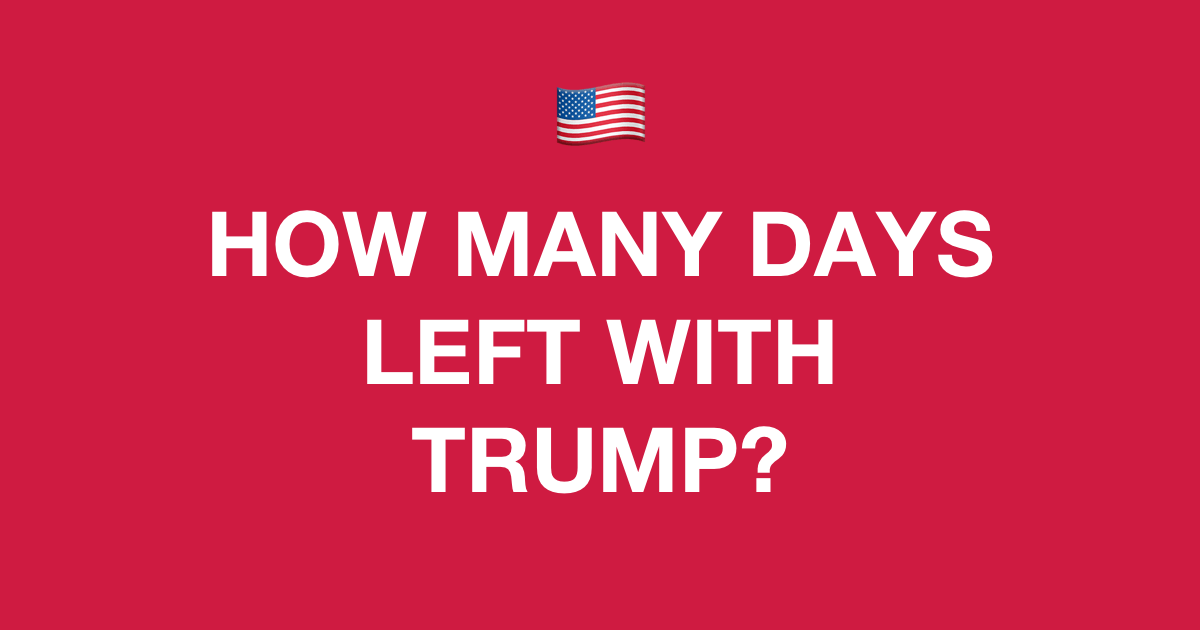
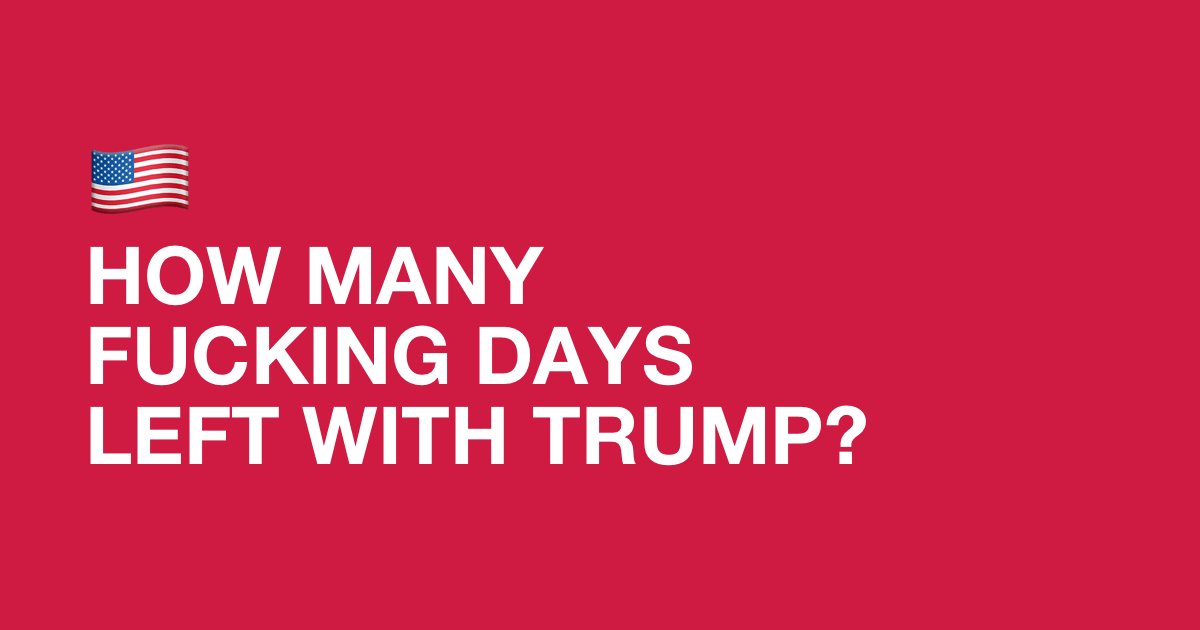
Update sharing URLs content and postcard img

Changed region(s): [[0.0617, 0.3317, 0.8325, 0.7841], [0.0617, 0.2111, 0.1542, 0.3619], [0.4625, 0.1206, 0.555, 0.2413]]

diff --git a/index.html b/index.html
@@ -54,7 +54,12 @@
             font-smoothing: antialiased;
         }
 
-        .lol {
+        .countdown {
+            display: flex;
+            flex-direction: column;
+        }
+
+        .lols {
             position: absolute;
             bottom: 20px;
         }
@@ -64,6 +69,8 @@
             background: none;
             border: none;
         }
+
+        button:hover { color: #444444; }
 
         .share {
             position: absolute;
@@ -92,25 +99,31 @@
 </head>
 
 <body>
-    <strong id="days"></strong>
-    <strong id="hours"></strong>
-    <strong id="minutes"></strong>
-    <strong id="seconds"></strong>
+    <div id="countdown" class="countdown">
+        <strong id="days"></strong>
+        <strong id="hours"></strong>
+        <strong id="minutes"></strong>
+        <strong id="seconds"></strong>
+    </div>
 
-	<div class="lol">
-		<button type="button" id="theme">I don't fucking like <span id="color">red</span></button>
+	<div class="lols">
+        <div class="lol">
+            <button type="button" id="theme">I don't fucking like <span id="color">red</span></button>
+        </div>
 	</div>
 
     <div class="share">
-        <a href="https://www.facebook.com/sharer/sharer.php?u=http://howmanydaysleftwithtrump.com" target="_blank">
+        <a id="facebook" href="" target="_blank">
             <svg viewBox="0 0 512 512"><path d="M211.9 197.4h-36.7v59.9h36.7V433.1h70.5V256.5h49.2l5.2-59.1h-54.4c0 0 0-22.1 0-33.7 0-13.9 2.8-19.5 16.3-19.5 10.9 0 38.2 0 38.2 0V82.9c0 0-40.2 0-48.8 0 -52.5 0-76.1 23.1-76.1 67.3C211.9 188.8 211.9 197.4 211.9 197.4z"/></svg>
         </a>
-        <a href="https://twitter.com/intent/tweet?url=http%3A%2F%2Fhowmanydaysleftwithtrump.com&text=How%20many%20days%20left%20with%20Trump%3F" target="_blank" title="Tweet">
+        <a id="twitter" href="" target="_blank" >
             <svg viewBox="0 0 512 512"><path d="M419.6 168.6c-11.7 5.2-24.2 8.7-37.4 10.2 13.4-8.1 23.8-20.8 28.6-36 -12.6 7.5-26.5 12.9-41.3 15.8 -11.9-12.6-28.8-20.6-47.5-20.6 -42 0-72.9 39.2-63.4 79.9 -54.1-2.7-102.1-28.6-134.2-68 -17 29.2-8.8 67.5 20.1 86.9 -10.7-0.3-20.7-3.3-29.5-8.1 -0.7 30.2 20.9 58.4 52.2 64.6 -9.2 2.5-19.2 3.1-29.4 1.1 8.3 25.9 32.3 44.7 60.8 45.2 -27.4 21.4-61.8 31-96.4 27 28.8 18.5 63 29.2 99.8 29.2 120.8 0 189.1-102.1 185-193.6C399.9 193.1 410.9 181.7 419.6 168.6z"/></svg>
         </a>
     </div>
 
     <script>
+        var countdown;
+
         function daysBetween(startDate, endDate) {
             var startDateInMs = startDate.getTime();
             var endDateInMs = endDate.getTime();
@@ -140,16 +153,46 @@
             element.className = element.className.replace(className, '').trim();
         }
 
-        var selectors = {
-            days: document.getElementById('days'),
-            hours: document.getElementById('hours'),
-            minutes: document.getElementById('minutes'),
-            seconds: document.getElementById('seconds')
+        function setUpSocialLinks() {
+            var shareLinks = [
+                {
+                    id: 'twitter',
+                    baseUrl: 'https://twitter.com/intent/tweet?url=http%3A%2F%2Fhowmanydaysleftwithtrump.com&',
+                    param: 'text'
+                },
+                {
+                    id: 'facebook',
+                    baseUrl: 'https://www.facebook.com/sharer/sharer.php?u=http://howmanydaysleftwithtrump.com&',
+                    param: 'title'
+                }
+            ];
+
+            shareLinks.forEach(function(shareLink) {
+                var link = document.getElementById(shareLink.id);
+                link.addEventListener('click', function() {
+                    var url = shareLink.baseUrl + shareLink.param + '=' + getText() + ' LEFT WITH TRUMP!'
+                    link.setAttribute('href', url);
+                });
+            });
+
+            function getText() {
+                var text = '';
+                for (key in countdown) {
+                    text += countdown[key] + ' fucking ' + key + ' ';
+                }
+                return text.toUpperCase();
+            }
         }
 
-
         function updateCountdown() {
-            var countdown = daysBetween(new Date(), new Date(2020, 10, 9));
+            var selectors = {
+                days: document.getElementById('days'),
+                hours: document.getElementById('hours'),
+                minutes: document.getElementById('minutes'),
+                seconds: document.getElementById('seconds')
+            }
+
+            countdown = daysBetween(new Date(), new Date(2020, 10, 9));
             for (key in countdown) {
                 selectors[key].innerHTML = countdown[key] + ' fucking ' + key;
             }
@@ -157,20 +200,14 @@
 
         updateCountdown();
         setInterval(updateCountdown, 1000);
+        setUpSocialLinks();
 
         var themeButton = document.getElementById('theme');
         var colorText = document.getElementById('color');
-        var currentTheme = 'red';
         themeButton.addEventListener('click', function() {
-            if (currentTheme === 'red') {
-                addClass(document.body, 'is-blue');
-                colorText.innerHTML = 'blue';
-                currentTheme = 'blue';
-            } else {
-                removeClass(document.body, 'is-blue');
-                colorText.innerHTML = 'red';
-                currentTheme = 'red';
-            }
+            addClass(document.body, 'is-blue');
+            colorText.innerHTML = 'blue';
+            currentTheme = 'blue';
         });
 
         (function(i,s,o,g,r,a,m){i['GoogleAnalyticsObject']=r;i[r]=i[r]||function(){
